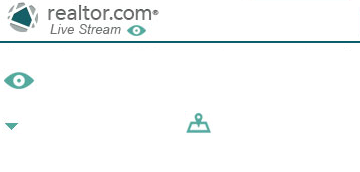
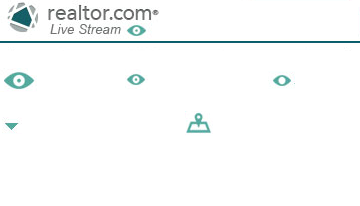
change stream button

diff --git a/content.html b/content.html
@@ -33,13 +33,19 @@
 			return false;
 		});
 		
+		var qa = window.location.href.split('?');
+		if(qa.length > 1 && qa[1].indexOf("count=3") > -1){
+			$("#dv-porp01, #dv-porp05").hide();
+		}
 		$('.watch-stream').click(function(){
 			var cntctrl = $(this);
 			var val = cntctrl.text();
-			if(val == 'Watch'){
-				cntctrl.html('Stop');
+			if(val == 'Stream'){
+				cntctrl.html('Live Stream');
+				cntctrl.removeClass("stream-off");
 			}else{
-				cntctrl.html('Watch');
+				cntctrl.html('Stream');
+				cntctrl.addClass("stream-off");
 			}
 			return false;
 		});
@@ -55,24 +61,24 @@
 		<a id="lnk-search" class="reversed-button" href="#">Submit</a>
 	</div>
 	<div id="dv-porp01" class="property-item-selected">
-		<a id="lnk-open-detail-01" class="button open-detail" href="reports.html">Details</a>
-		<a id="lnk-watch-stream-01" class="open-eye-button watch-stream" href="#">Watch</a>
+		<a id="lnk-open-detail-01" class="button open-detail" href="reports.html">View Report</a>
+		<a id="lnk-watch-stream-01" class="open-eye-button-small stream-off watch-stream" href="#">Stream</a>
 	</div>
 	<div id="dv-porp02" class="property-item">
-		<a id="lnk-open-detail-02" class="button open-detail" href="reports.html">Details</a>
-		<a id="lnk-watch-stream-02" class="open-eye-button watch-stream" href="#">Watch</a>
+		<a id="lnk-open-detail-02" class="button open-detail" href="reports.html">View Report</a>
+		<a id="lnk-watch-stream-02" class="open-eye-button-small stream-off watch-stream" href="#">Stream</a>
 	</div>
 	<div id="dv-porp03" class="property-item">
-		<a id="lnk-open-detail-03" class="button open-detail" href="reports.html">Details</a>
-		<a id="lnk-watch-stream-03" class="open-eye-button watch-stream" href="#">Watch</a>
+		<a id="lnk-open-detail-03" class="button open-detail" href="reports.html">View Report</a>
+		<a id="lnk-watch-stream-03" class="open-eye-button-small stream-off watch-stream" href="#">Stream</a>
 	</div>
 	<div id="dv-porp04" class="property-item">
-		<a id="lnk-open-detail-04" class="button open-detail" href="reports.html">Details</a>
-		<a id="lnk-watch-stream-04" class="open-eye-button watch-stream" href="#">Watch</a>
+		<a id="lnk-open-detail-04" class="button open-detail" href="reports.html">View Report</a>
+		<a id="lnk-watch-stream-04" class="open-eye-button-small stream-off watch-stream" href="#">Stream</a>
 	</div>
 	<div id="dv-porp05" class="property-item">
-		<a id="lnk-open-detail-05" class="button open-detail" href="reports.html">Details</a>
-		<a id="lnk-watch-stream-05" class="open-eye-button watch-stream" href="#">Watch</a>
+		<a id="lnk-open-detail-05" class="button open-detail" href="reports.html">View Report</a>
+		<a id="lnk-watch-stream-05" class="open-eye-button-small stream-off watch-stream" href="#">Stream</a>
 	</div>
 </body>
 </html>

diff --git a/streams.html b/streams.html
@@ -34,10 +34,12 @@
 		$('.watch-stream').click(function(){
 			var cntctrl = $(this);
 			var val = cntctrl.text();
-			if(val == 'Watch'){
-				cntctrl.html('Stop');
+			if(val == 'Stream'){
+				cntctrl.html('Live Stream');
+				cntctrl.removeClass("stream-off");
 			}else{
-				cntctrl.html('Watch');
+				cntctrl.html('Stream');
+				cntctrl.addClass("stream-off");
 			}
 			return false;
 		});
@@ -48,22 +50,22 @@
 	<a id="lnk-open-map" class="open-map-button" href="content.html">Map</a>
 	<a id="lnk-open-stream" class="open-eye-button" href="streams.html">Streams</a>
 	<div id="dv-stream01" class="stream-item">
-		<a id="lnk-watch-stream-01" class="open-eye-button watch-stream" href="#">Watch</a>
+		<a id="lnk-watch-stream-01" class="open-eye-button-small stream-off watch-stream" href="#">Stream</a>
 		<a id="lnk-delete-stream-01" class="button remove-stream" href="#">Remove</a>
 		<a id="lnk-update-stream-01" class="button update-stream" href="#">Update 3</a>
 	</div>
 	<div id="dv-stream02" class="stream-item">
-		<a id="lnk-watch-stream-02" class="open-eye-button watch-stream" href="#">Watch</a>
+		<a id="lnk-watch-stream-02" class="open-eye-button-small stream-off watch-stream" href="#">Stream</a>
 		<a id="lnk-delete-stream-02" class="button remove-stream" href="#">Remove</a>
-		<a id="lnk-update-stream-02" class="button update-stream" href="#">Update 3</a>
+		<a id="lnk-update-stream-02" class="button update-stream" href="#">Update 5</a>
 	</div>
 	<div id="dv-stream03" class="stream-item">
-		<a id="lnk-watch-stream-03" class="open-eye-button watch-stream" href="#">Watch</a>
+		<a id="lnk-watch-stream-03" class="open-eye-button-small stream-off watch-stream" href="#">Stream</a>
 		<a id="lnk-delete-stream-03" class="button remove-stream" href="#">Remove</a>
-		<a id="lnk-update-stream-03" class="button update-stream" href="#">Update 3</a>
+		<a id="lnk-update-stream-03" class="button update-stream" href="#">Update 0</a>
 	</div>
 	<div id="dv-stream04" class="stream-item">
-		<a id="lnk-watch-stream-04" class="open-eye-button watch-stream" href="#">Watch</a>
+		<a id="lnk-watch-stream-04" class="open-eye-button-small stream-off watch-stream" href="#">Stream</a>
 		<a id="lnk-delete-stream-04" class="button remove-stream" href="#">Remove</a>
 		<a id="lnk-update-stream-04" class="button update-stream" href="#">Update 3</a>
 	</div>

diff --git a/style/all.css b/style/all.css
@@ -274,6 +274,25 @@
 	padding:5px;
 }
 
+.open-eye-button-small{
+	background-image: url(../images/asset.png);
+    background-repeat: no-repeat;
+    background-position: -126px -70px;
+	text-decoration:none;
+	border-style:solid;
+	border-width:1px;
+	border-color:#008888;
+	border-radius:5px;
+	padding:5px 25px 5px 20px;
+	color:#008888;
+	white-space:nowrap;
+}
+
+a.stream-off{
+    background-position: -265px -71px;
+	padding: 5px 15px 5px 30px;
+}
+
 .stream-item{
 	background-image: url(../images/page-3.jpg);
     background-repeat: no-repeat;
@@ -299,19 +318,16 @@
 }
 
 a.watch-stream, a.open-detail, a.remove-stream, a.update-stream{
-	font-size:12px;
+	font-size:11px;
 	position:relative;
 	display:block;
 	background-color:white;
-	padding-top:9px;
-	padding-bottom:8px;
 	left:228px;
 }
 
 .watch-stream{
-	top:16px;
+	top:20px;
 	width:35px;
-    background-position: 0 -66px;
 }
 
 .open-detail{
@@ -322,7 +338,6 @@ a.watch-stream, a.open-detail, a.remove-stream, a.update-stream{
 .stream-item .watch-stream{
 	top:4px;
 	width:35px;
-    background-position: 0 -69px;
 }
 
 .stream-item .watch-stream, .stream-item .remove-stream, .stream-item .update-stream{

diff --git a/reports.html b/reports.html
@@ -63,12 +63,14 @@
 			
 			$('#lnk-view-stream').hide();
 			$('#lnk-toggle-watch').click(function(){
-				if($(this).text() == 'Watch'){
-					$(this).text('Stop');
-					$('#lnk-view-stream').show();
+				var cntctrl = $(this);
+				var val = cntctrl.text();
+				if(val == 'Stream'){
+					cntctrl.html('Live Stream');
+					cntctrl.removeClass("stream-off");
 				}else{
-					$(this).text('Watch');
-					$('#lnk-view-stream').hide();
+					cntctrl.html('Stream');
+					cntctrl.addClass("stream-off");
 				}
 				return false;
 			});
@@ -104,7 +106,7 @@
 		</div>
 	</div>
 	<div class="button-panel">
-		<a id="lnk-toggle-watch" class="open-eye-button" href="#">Watch</a>
+		<a id="lnk-toggle-watch" class="open-eye-button-small stream-off" href="#">Stream</a>
 		<a id="lnk-view-stream" class="button" href="#">Live Stream</a>
 		<a id="lnk-contact-agent" class="button" href="#">Contact Agent</a>
 	</div>
